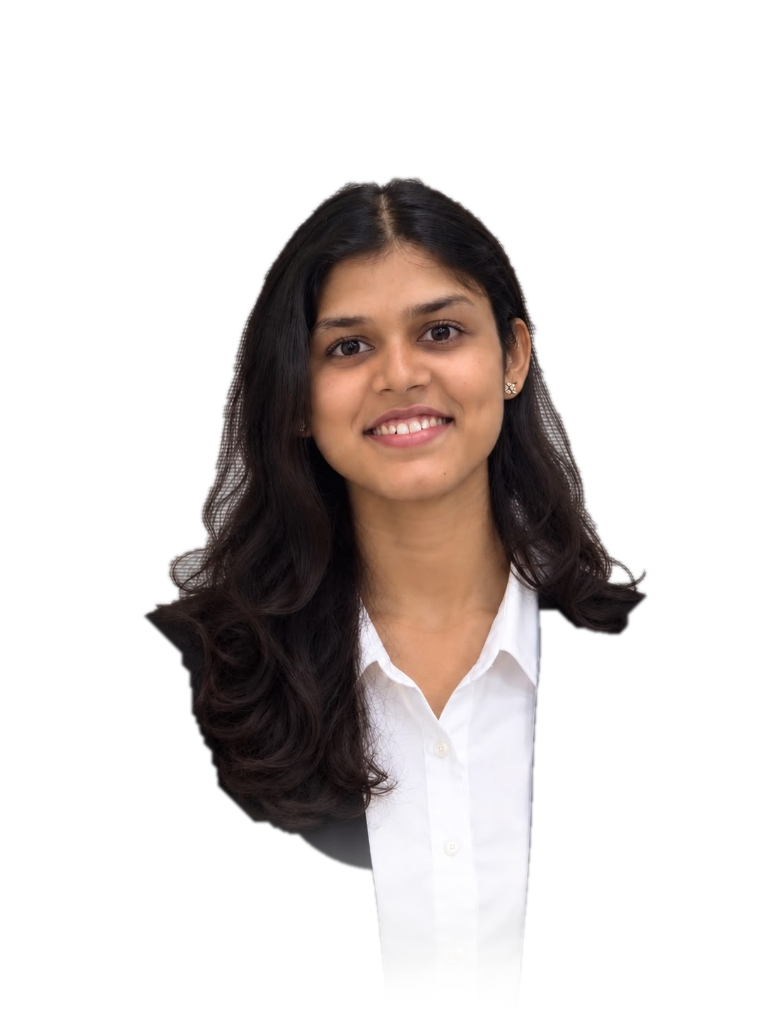
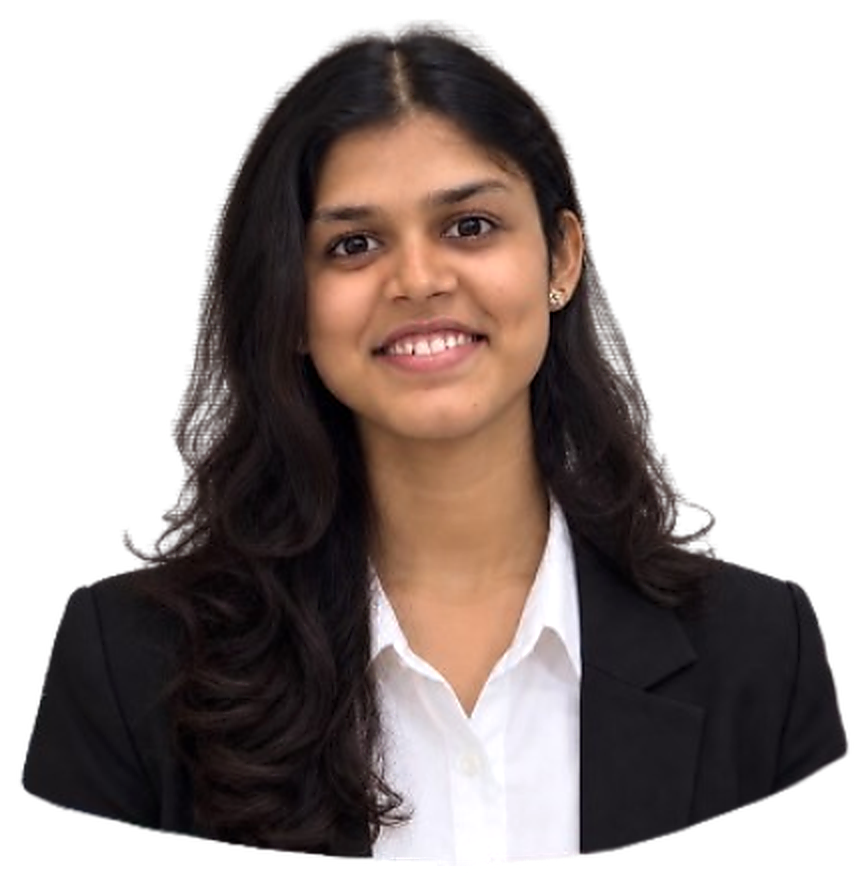
fix(deploy): update gh-pages root index.html to load Libre Baskerville bundle and latest hero portrait

diff --git a/index.html b/index.html
@@ -18,9 +18,9 @@
     <!-- Fonts -->
     <link rel="preconnect" href="https://fonts.googleapis.com">
     <link rel="preconnect" href="https://fonts.gstatic.com" crossorigin>
-    <link href="https://fonts.googleapis.com/css2?family=Cormorant+Garamond:ital,wght@1,400;1,600&family=JetBrains+Mono:wght@400;500;600&family=Playfair+Display:ital,wght@0,600;0,700;0,900;1,600&family=Plus+Jakarta+Sans:wght@300;400;500;600;700;800&family=Syne:wght@700;800&display=swap" rel="stylesheet">
-    <script type="module" crossorigin src="./assets/index-QvwOKlpi.js"></script>
-    <link rel="stylesheet" crossorigin href="./assets/index-Delc61u7.css">
+    <link href="https://fonts.googleapis.com/css2?family=Cormorant+Garamond:ital,wght@1,400;1,600;1,700&family=JetBrains+Mono:wght@400;500;600&family=Libre+Baskerville:ital,wght@0,400;0,700;1,400&family=Playfair+Display:ital,wght@0,600;0,700;0,900;1,600&family=Plus+Jakarta+Sans:wght@300;400;500;600;700;800&display=swap" rel="stylesheet">
+    <script type="module" crossorigin src="./assets/index-DZ7z-wA2.js"></script>
+    <link rel="stylesheet" crossorigin href="./assets/index-CUArsbQA.css">
   </head>
   <body class="bg-[#FBFBFA] text-[#1C1917] antialiased selection:bg-amber-200 selection:text-neutral-900">
     <div id="root"></div>
